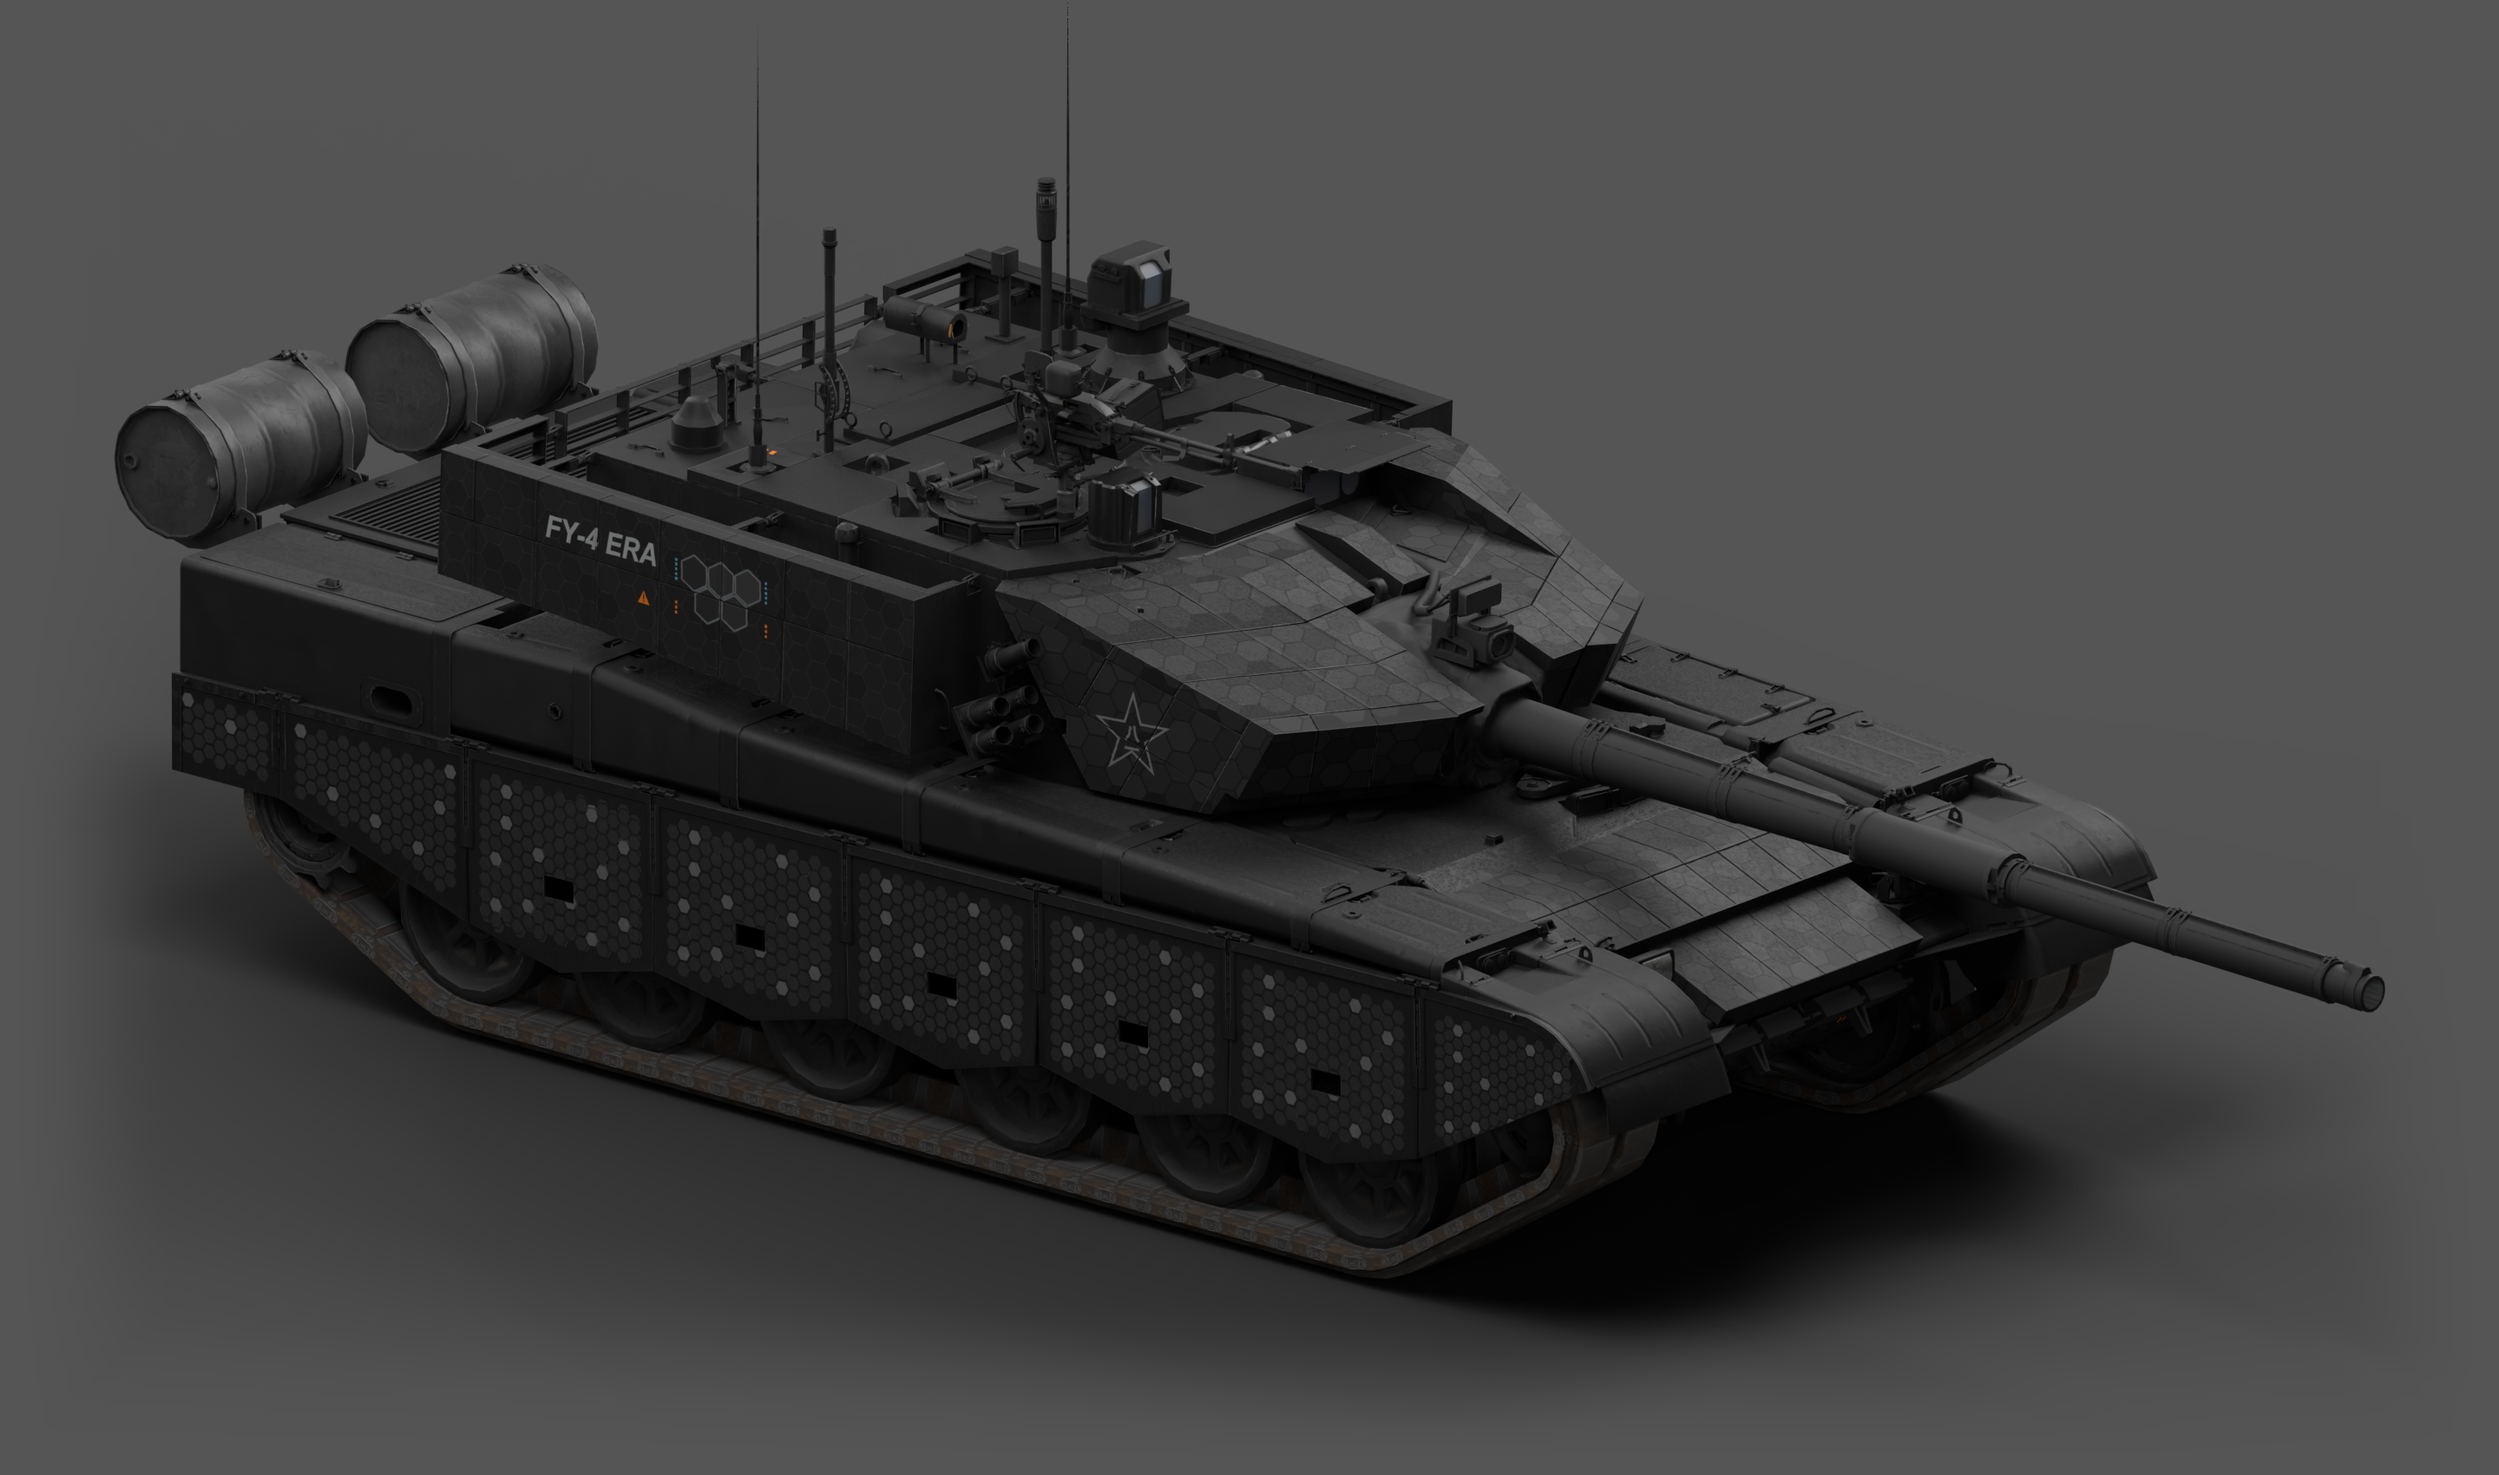
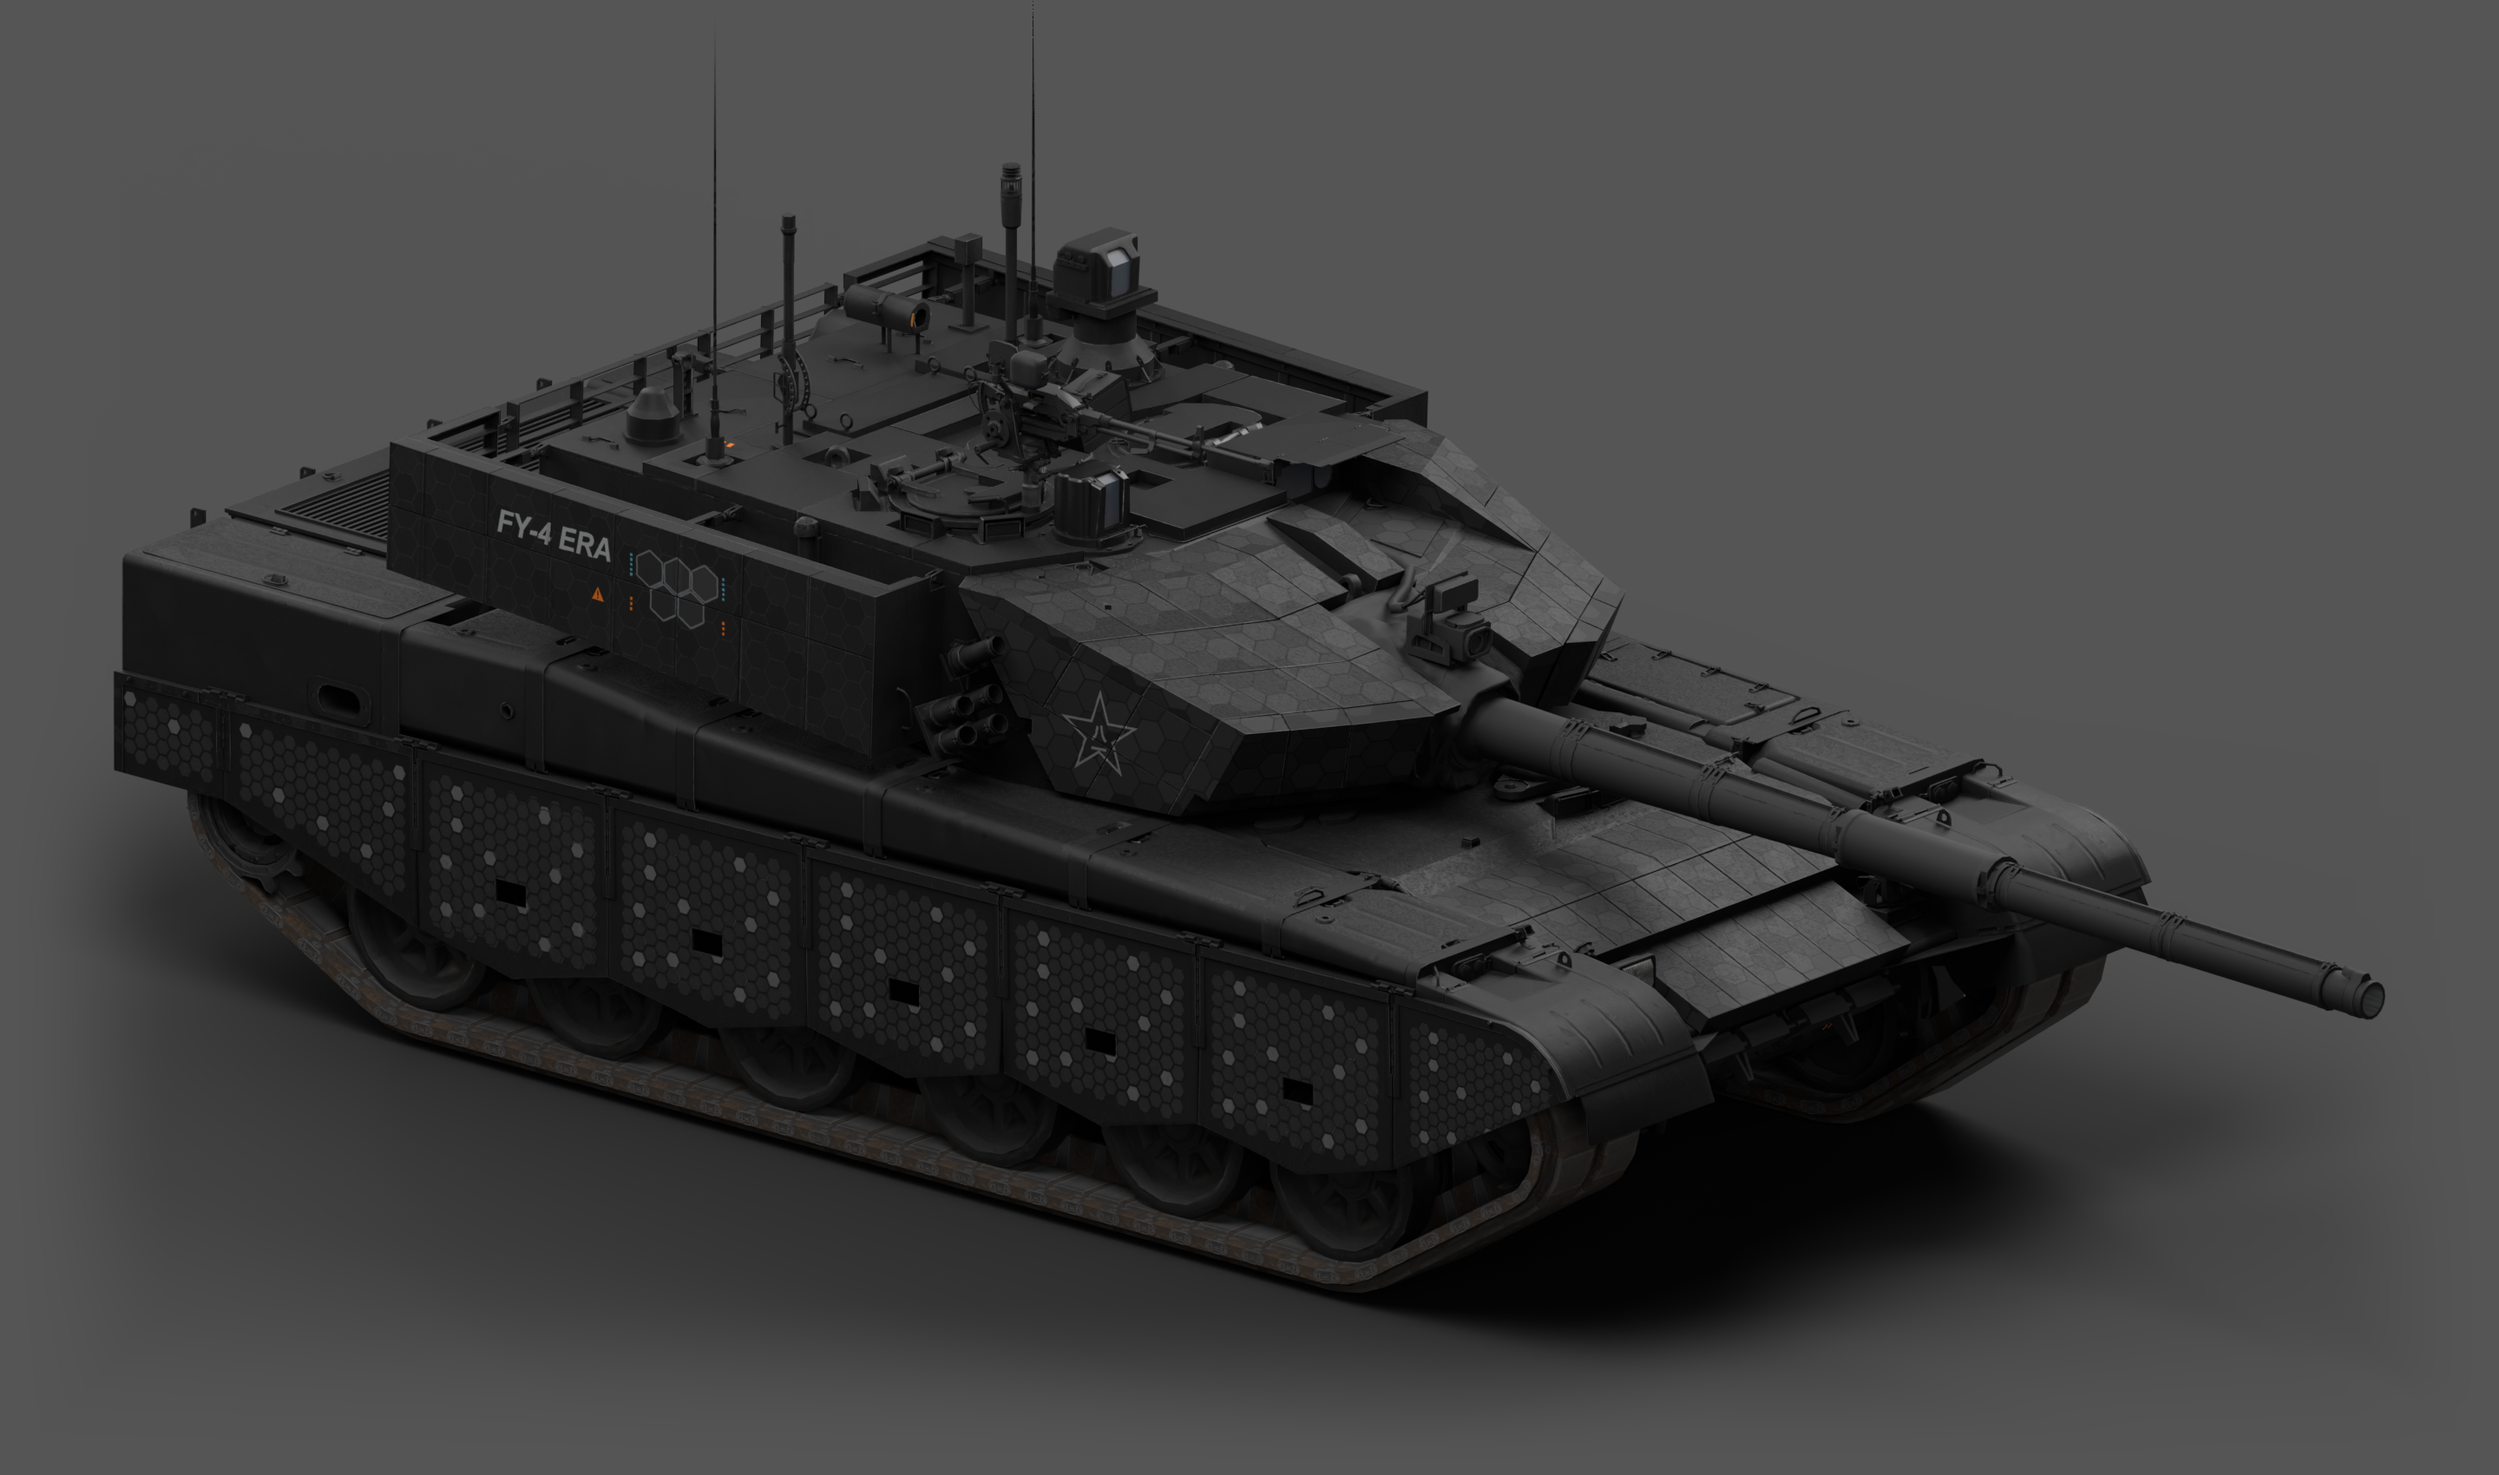
Remove rear fuel drums from the 99A showcase and source model

diff --git a/site/build.py b/site/build.py
@@ -124,9 +124,9 @@ def build(out,viewer,previews_dir=None,archive=None):
         content=f'''<nav class="breadcrumb"><a href="../../index.html">全部作品</a><a href="../../index.html?category={section}">{category}</a></nav><nav class="vehicle-kind">{'地面载具' if work['category']=='ground' else '飞机涂装'}</nav><h1>{title}</h1><p class="work-status">状态：{html.escape(work["status"])}</p><section class="interactive"><div class="preview-title"><h2>这套涂装的 3D 预览</h2><span>拖动旋转 · 滚轮拉近</span></div>{choices}<iframe id="preview" title="{title} 三维预览" src="{iframe}" data-scenes="{html.escape(json.dumps(scenes,ensure_ascii=False),quote=True)}" allow="fullscreen" loading="lazy"></iframe><p class="note">已自动载入对应车型和本套涂装 · 可在画面中切换清晰度与视角</p></section><article>{rendered[identifier]}</article>'''
         (folder/'index.html').write_text(page(work['title'],content,2),encoding='utf-8')
         cards[section].append(f'<a class="work" href="works/{identifier}/"><small>{"参考原作" if work["kind"]=="references" else "地面载具" if work["category"]=="ground" else "飞机涂装"} · {html.escape(work["status"])}</small><h2>{title}</h2><span>打开介绍与 3D 预览 →</span></a>')
-    buttons='<button type="button" data-category="all" aria-pressed="true">全部作品 <span>20</span></button>'+''.join(f'<button type="button" data-category="{key}" aria-pressed="false">{html.escape(row["title"])} <span>{len(cards[key])}</span></button>' for key,row in sections.items())
+    buttons='<button type="button" data-category="all" aria-pressed="true">全部作品 <span>'+str(len(data['works']))+'</span></button>'+''.join(f'<button type="button" data-category="{key}" aria-pressed="false">{html.escape(row["title"])} <span>{len(cards[key])}</span></button>' for key,row in sections.items())
     groups=''.join(f'<section class="work-group" data-section="{key}" id="{key}"><div class="group-heading"><h2>{html.escape(row["title"])}</h2><span>{len(cards[key])} 套</span></div><div class="works">'+''.join(cards[key])+'</div></section>' for key,row in sections.items())
-    content='<p class="eyebrow">按分类浏览 · 每套作品内嵌 3D 预览</p><h1>涂装作品集</h1><p class="intro">选择分类，再打开作品查看对应模型、介绍与下载。历史方案和参考原作单独归档，作品评价保持原样。</p><nav class="category-filter" aria-label="作品分类">'+buttons+'</nav><p class="filter-result" id="filterResult" role="status" aria-live="polite">全部作品 · 20 套</p>'+groups
+    content='<p class="eyebrow">按分类浏览 · 每套作品内嵌 3D 预览</p><h1>涂装作品集</h1><p class="intro">选择分类，再打开作品查看对应模型、介绍与下载。历史方案和参考原作单独归档，作品评价保持原样。</p><nav class="category-filter" aria-label="作品分类">'+buttons+'</nav><p class="filter-result" id="filterResult" role="status" aria-live="polite">全部作品 · '+str(len(data['works']))+' 套</p>'+groups
     (out/'index.html').write_text(page('作品与 3D 预览',content),encoding='utf-8')
     output_bytes=sum(p.stat().st_size for p in out.rglob('*') if p.is_file())
     if output_bytes>=950_000_000:raise ValueError('Published site exceeds the 950 MB resource budget')

diff --git a/works/ground/ztz99a-spectre42/README.md b/works/ground/ztz99a-spectre42/README.md
@@ -8,6 +8,8 @@
 
 <!-- interactive-preview:end -->
 
+车尾两只外置油桶已排除，网页、七视图和三张整车图与配套运行模型保持一致。
+
 这套 ZTZ99A 专用涂装以炭灰与相近灰阶分块构成主体，侧裙连续细密蜂窝、炮塔局部较大蜂窝和 FY-4 ERA 图形标注形成层次。顶部采用小尺寸低对比深色细线，板面与舱盖增强金属光泽，同时保留细磨砂、结构缝和 AO；后部两侧以克制的橙黑短条呼应。
 
 **状态：已获准发布。配套原生模型、最终 DDS、全部 mip 与独立重建已核验；游戏内视觉仍待实际客户端复核。**
@@ -16,12 +18,12 @@
 
 ## 下载
 
-- [游戏涂装与配套 WTG 模型组件 ZIP](https://github.com/IcyRyna/war-thunder-liveries/releases/download/works/ztz99a-spectre42/v55/ztz99a-spectre42-game.zip)
-- [完整可编辑工程与源码 ZIP](https://github.com/IcyRyna/war-thunder-liveries/releases/download/works/ztz99a-spectre42/v55/ztz99a-spectre42-source.zip)
-- [七视图原尺寸 PNG](https://github.com/IcyRyna/war-thunder-liveries/releases/download/works/ztz99a-spectre42/v55/ztz99a-spectre42-seven-views.png)
-- [斜前整车大图 PNG](https://github.com/IcyRyna/war-thunder-liveries/releases/download/works/ztz99a-spectre42/v55/ztz99a-spectre42-hero-front.png)
-- [另一侧整车大图 PNG](https://github.com/IcyRyna/war-thunder-liveries/releases/download/works/ztz99a-spectre42/v55/ztz99a-spectre42-hero-opposite.png)
-- [顶部整车大图 PNG](https://github.com/IcyRyna/war-thunder-liveries/releases/download/works/ztz99a-spectre42/v55/ztz99a-spectre42-hero-overview.png)
+- [游戏涂装与配套 WTG 模型组件 ZIP](https://github.com/IcyRyna/war-thunder-liveries/releases/download/works/ztz99a-spectre42/v56/ztz99a-spectre42-game.zip)
+- [完整可编辑工程与源码 ZIP](https://github.com/IcyRyna/war-thunder-liveries/releases/download/works/ztz99a-spectre42/v56/ztz99a-spectre42-source.zip)
+- [七视图原尺寸 PNG](https://github.com/IcyRyna/war-thunder-liveries/releases/download/works/ztz99a-spectre42/v56/ztz99a-spectre42-seven-views.png)
+- [斜前整车大图 PNG](https://github.com/IcyRyna/war-thunder-liveries/releases/download/works/ztz99a-spectre42/v56/ztz99a-spectre42-hero-front.png)
+- [另一侧整车大图 PNG](https://github.com/IcyRyna/war-thunder-liveries/releases/download/works/ztz99a-spectre42/v56/ztz99a-spectre42-hero-opposite.png)
+- [顶部整车大图 PNG](https://github.com/IcyRyna/war-thunder-liveries/releases/download/works/ztz99a-spectre42/v56/ztz99a-spectre42-hero-overview.png)
 
 图片独立提供，游戏 ZIP 只含运行所需配置、纹理和匹配模型组件。源码提供 Composa 分层工程、完整 PNG、原生 UV、可独立打开的 GLB 和逐字节重建脚本。
 
